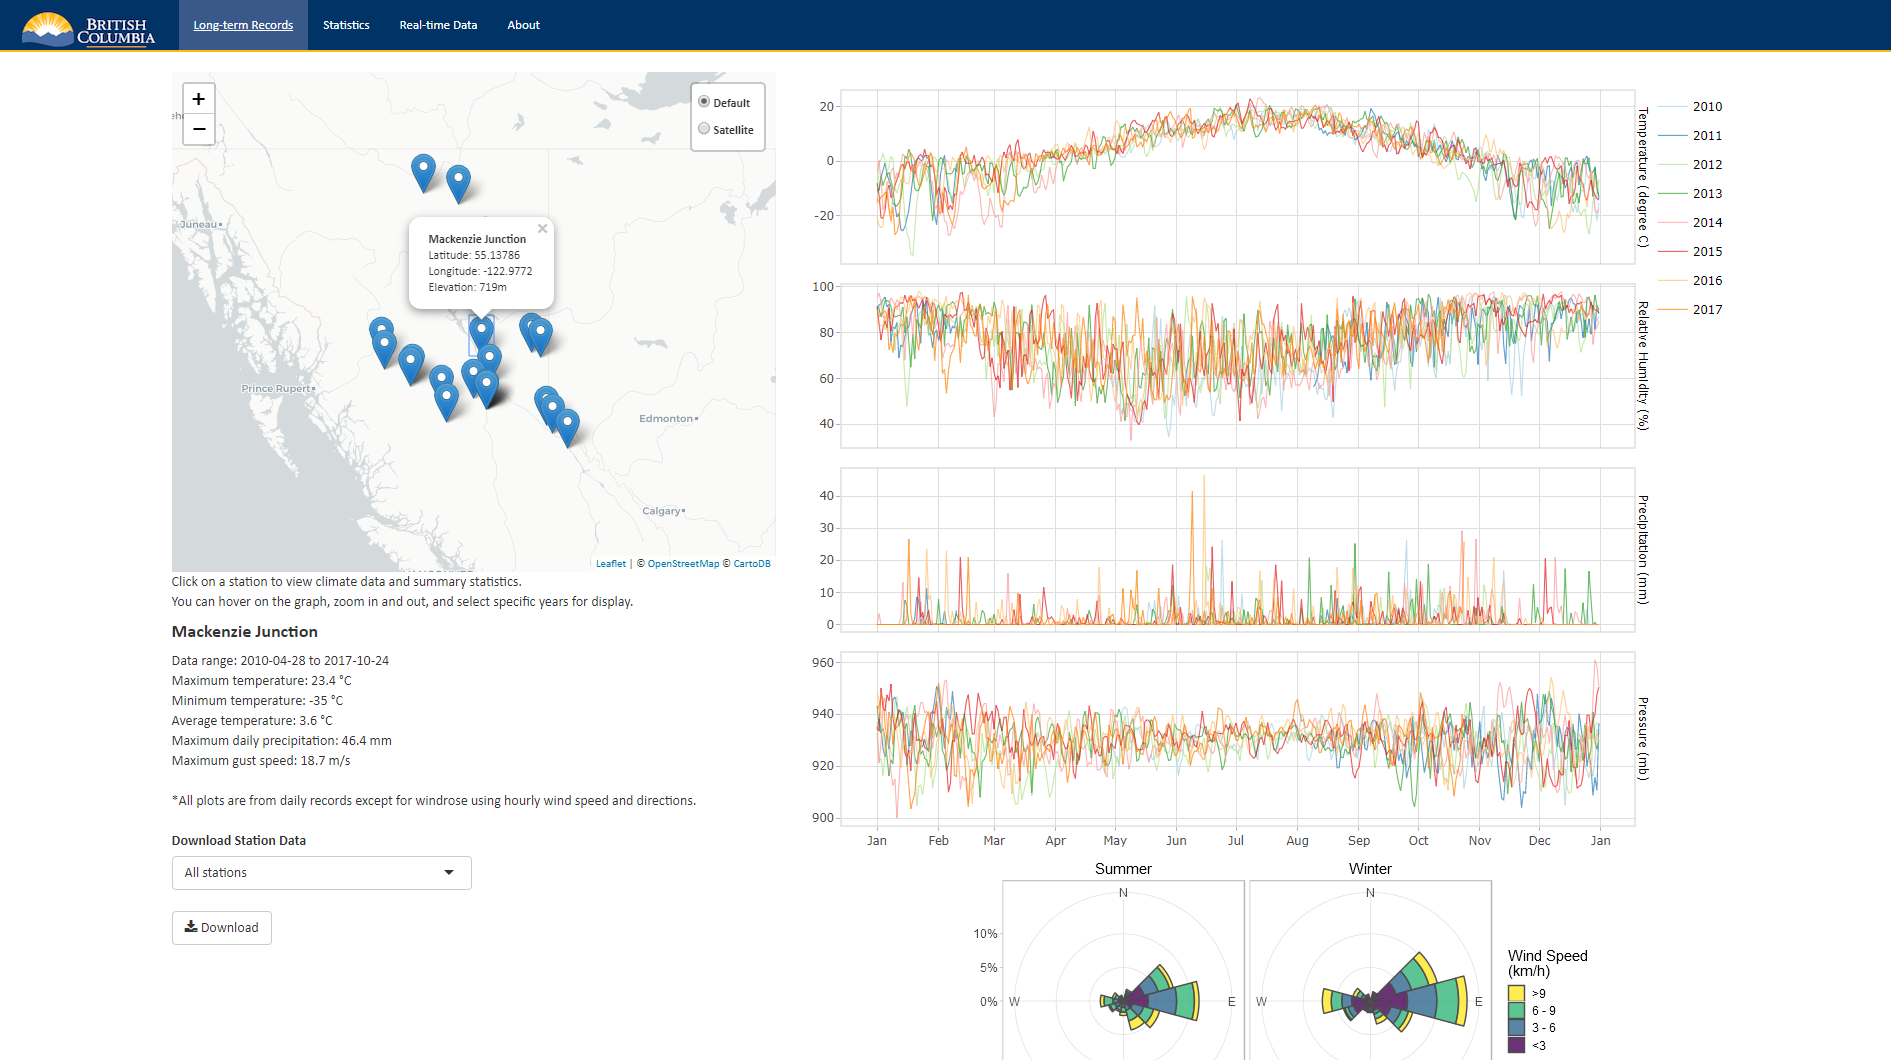
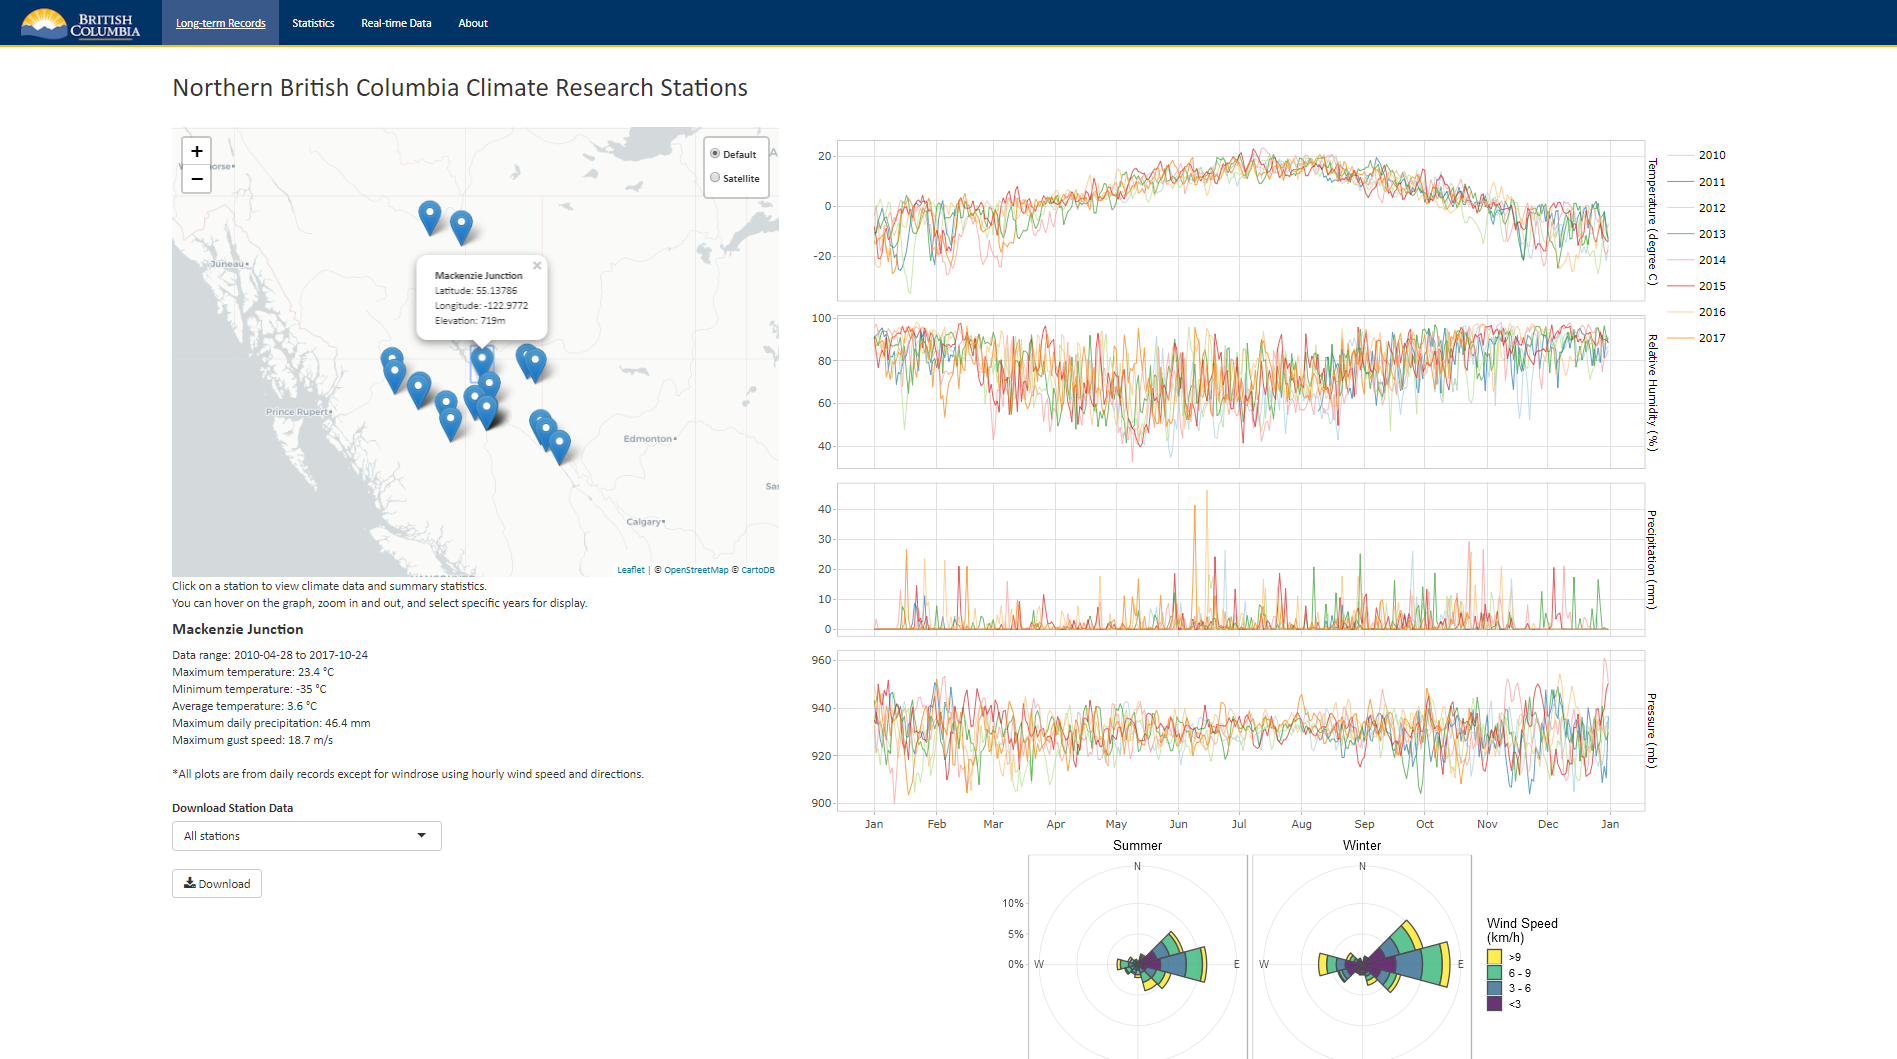
Add title on title page

diff --git a/README.md b/README.md
@@ -42,7 +42,7 @@ Please note that this project is released with a [Contributor Code of Conduct](C
     You may obtain a copy of the License at
 
     http://www.apache.org/licenses/LICENSE-2.0
-
++
     Unless required by applicable law or agreed to in writing, software distributed under the License is distributed on an "AS IS" BASIS,
     WITHOUT WARRANTIES OR CONDITIONS OF ANY KIND, either express or implied.
     See the License for the specific language governing permissions and limitations under the License.
